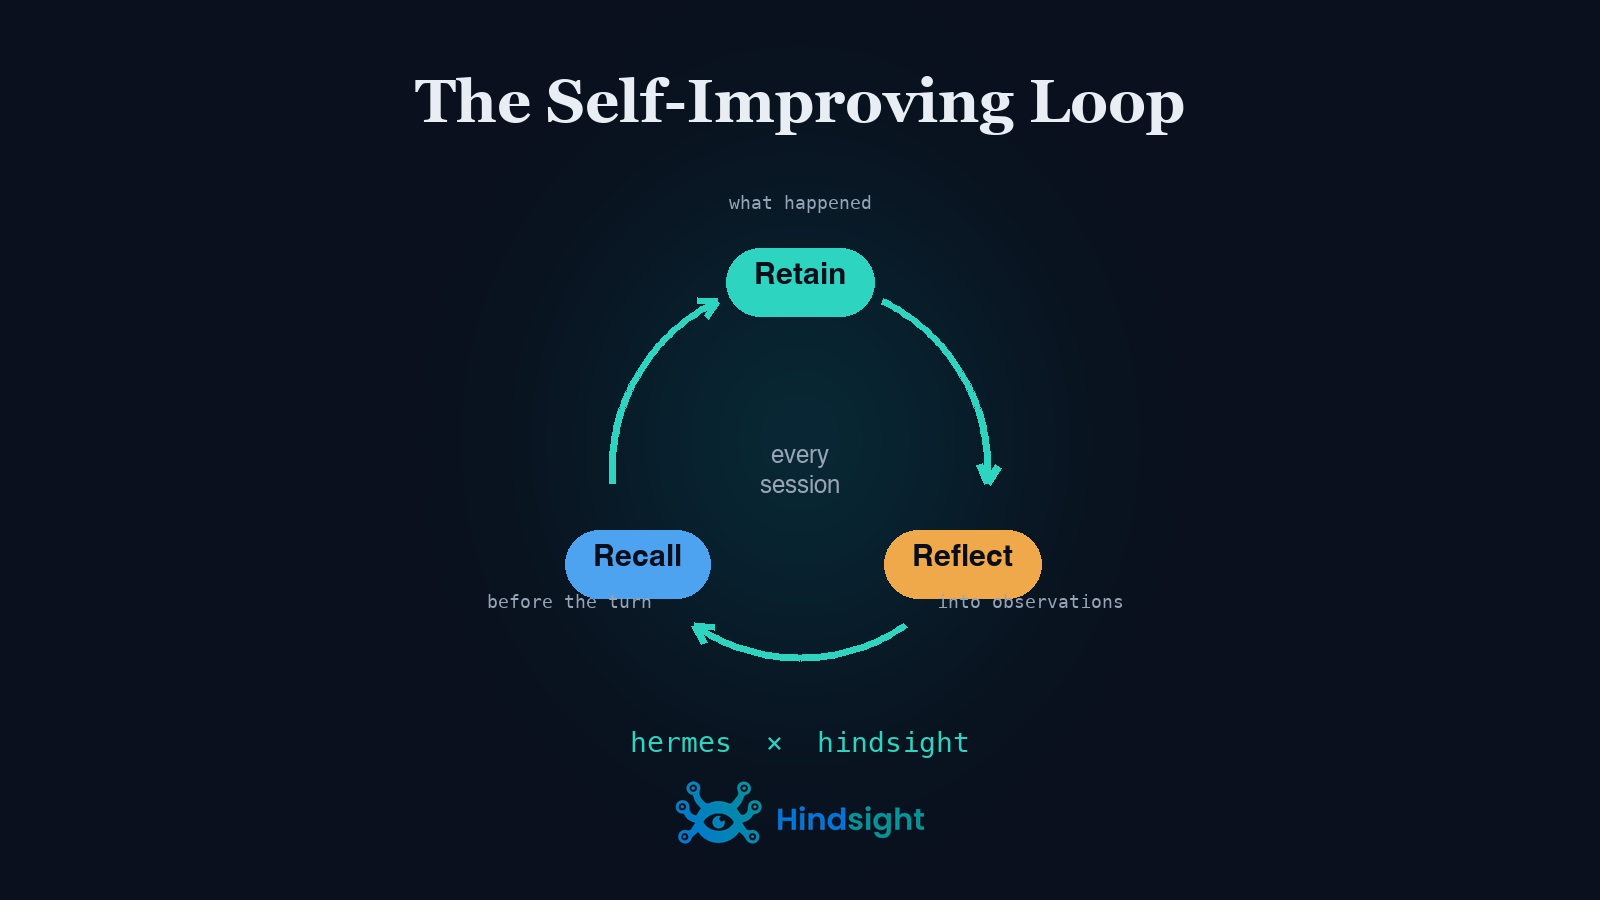
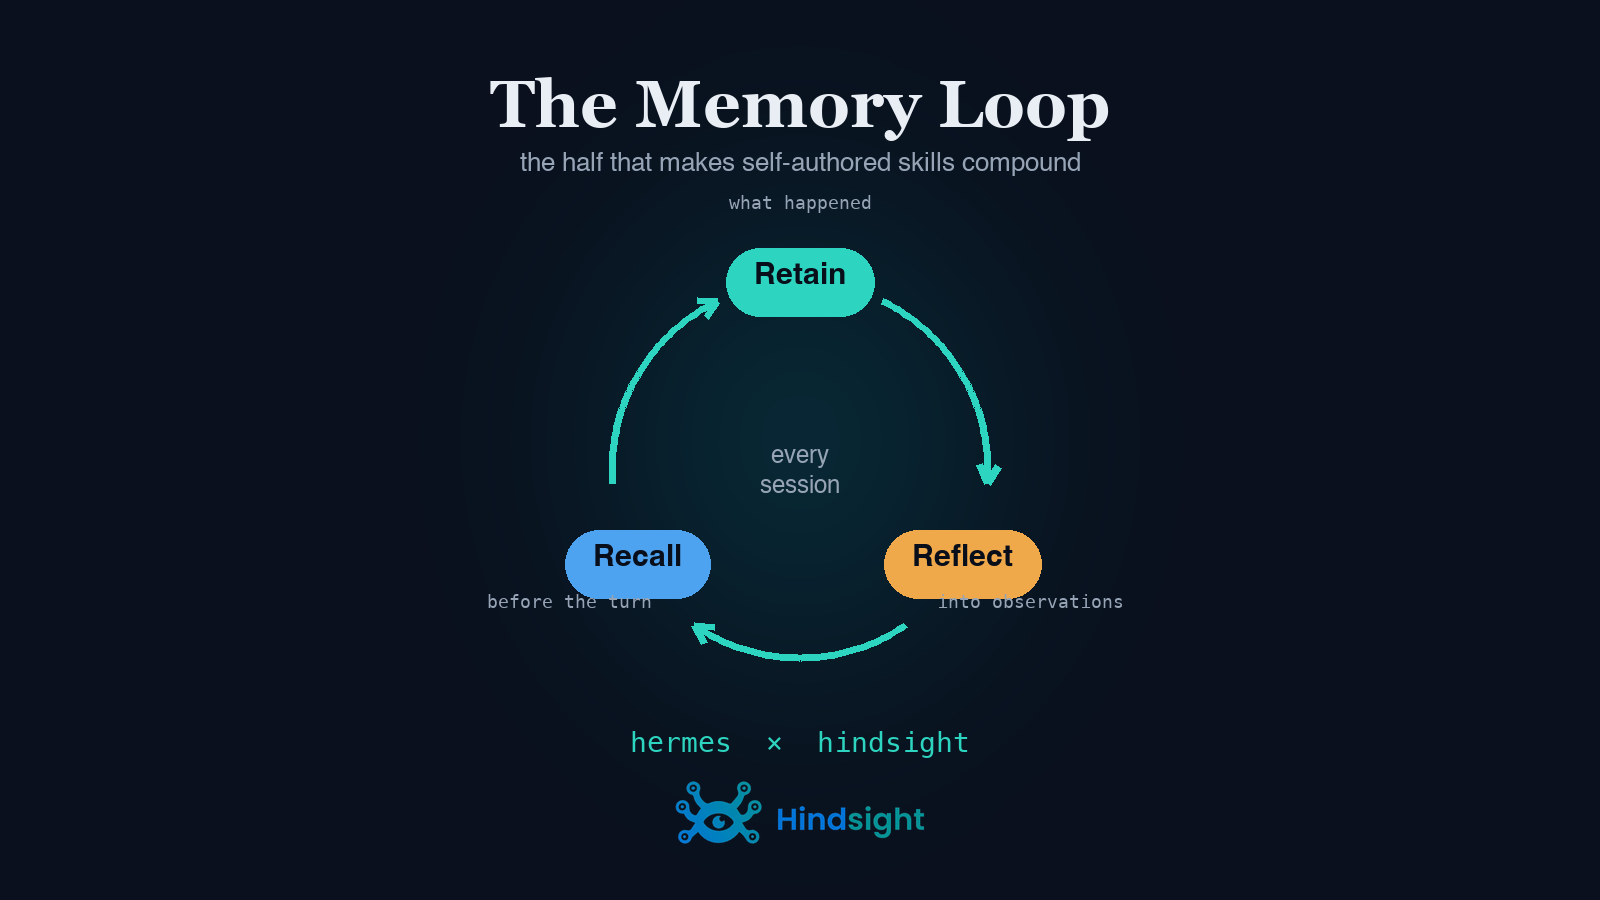
Blog: correct the Hermes self-improvement framing (skills, then memory)
Hermes self-improves by writing its own skills (skill creation, patching,
/learn, GEPA self-evolution). Reframe memory as the complementary half that
makes those skills persist and compound in context, not as the self-improving
mechanism itself. Retitle, add Hermes skills-docs links, update cover to
"The Memory Loop".

Changed region(s): [[0.25, 0.0622, 0.75, 0.1867]]

diff --git a/hindsight-docs/blog/2026-07-08-hermes-self-improving-memory.md b/hindsight-docs/blog/2026-07-08-hermes-self-improving-memory.md
@@ -1,76 +1,71 @@
 ---
-title: "How Memory Turns Hermes Into a Self-Improving Agent"
+title: "Hermes Writes Its Own Skills. Memory Makes Them Compound."
 authors: [benfrank241]
 slug: "2026/07/08/hermes-self-improving-memory"
 date: 2026-07-08T12:00
 tags: [hermes, agents, memory, hindsight, self-improving, agent-memory]
-description: "Hermes bills itself as self-improving. But an agent that forgets each session cannot improve, it resets. Memory is the loop that makes the improvement compound."
+description: "Hermes self-improves by writing its own skills. But skills only compound if the agent remembers them and the context that made them matter. That is where memory comes in."
 image: /img/blog/hermes-self-improving-loop.png
 hide_table_of_contents: true
 ---
 
-![How memory turns Hermes into a self-improving agent](/img/blog/hermes-self-improving-loop.png)
+![Hermes writes its own skills, and memory makes them compound](/img/blog/hermes-self-improving-loop.png)
 
-[Hermes Agent](https://github.com/NousResearch/hermes-agent) is billed as a self-improving AI agent: 40+ tools, a plugin system, and the ability to get better at your work over time. It is a great pitch. But there is a quiet dependency underneath it that decides whether "self-improving" is real or just a slogan: memory.
+[Hermes Agent](https://github.com/NousResearch/hermes-agent) is the rare agent that actually self-improves, and it does it in a concrete way: it writes its own skills. Finish a non-trivial, multi-step task and Hermes can save the approach it worked out as a reusable skill, patch that skill later when it turns out to be wrong, and keep a growing library of capabilities it authored itself. That is a real learning loop, not a slogan.
 
-An agent that forgets everything between sessions does not improve. It resets. It can be brilliant inside one conversation and a stranger in the next, re-learning your stack, your conventions, and the correction you gave it yesterday. Improvement only compounds if the agent remembers what it did, what it learned, and what you told it. That loop is exactly what a memory system provides.
+But skill creation is only half of what makes an agent get better over time. A skill is a file on disk. For it to actually improve the agent, Hermes has to remember the skill exists, know when it applies, and carry the project and user context that made it matter in the first place. That second half is memory, and it is what turns a pile of self-authored skills into an agent that compounds.
 
 <!-- truncate -->
 
 ## TL;DR
 
-- Self-improvement requires memory. Without it, an agent relearns the same context every session instead of building on it.
-- Hermes's built-in memory saves notes to local files: flat text, keyword search, single machine, no synthesis. That captures what the model writes down, not what it learns.
-- Hindsight is a [native memory provider](/blog/2026/04/06/hermes-native-memory-provider) for Hermes. It closes the loop: retain after each turn, consolidate into durable observations, recall the relevant ones before the next turn.
-- The loop compounds because memory stays distilled (consolidation) and retrieval holds up at scale ([64.1% at 10 million tokens on BEAM](/blog/2026/04/02/beam-sota)).
+- Hermes's self-improvement is genuine and specific: it [creates its own skills](https://hermes-agent.nousresearch.com/docs/user-guide/features/skills) from experience, patches them when they are outdated or wrong, and can even evolve them.
+- A skill only helps if the agent remembers it exists, when to use it, and the context that motivated it. That is memory, not skills.
+- Hindsight is Hermes's [native memory provider](/blog/2026/04/06/hermes-native-memory-provider): retain after each turn, consolidate into durable observations, recall the relevant ones before the next.
+- Skills give Hermes new capabilities. Memory makes them compound across sessions and machines instead of resetting.
 
-## Why "self-improving" needs a substrate
+## The engine: Hermes writes its own skills
 
-Think about what it actually takes for an agent to get better at helping you. It has to notice what happened, keep the parts that matter, distill them into something reusable, and bring the right piece back at the right moment. Retain, reflect, recall. Skip any one of those and the loop breaks.
+This is the part that makes Hermes genuinely self-improving. When it works out a non-trivial workflow, it can save that approach as a reusable [skill](https://hermes-agent.nousresearch.com/docs/user-guide/features/skills), so next time the same kind of task comes up it reaches for what it already figured out instead of solving it from scratch. Skills are not frozen either. When one turns out to be incomplete or wrong in practice, Hermes patches it. There is even a `/learn` command that captures a workflow you just did and writes the skill document for you, and an optional [self-evolution](https://github.com/NousResearch/hermes-agent-self-evolution) layer that uses evolutionary search (DSPy and GEPA) to optimize skills, tool descriptions, and prompts.
 
-Hermes ships with memory, and it is a reasonable design: a `memory` tool that writes durable notes to local files and a search tool to look them up. It works for explicit facts. But it has limits that keep the improvement from compounding:
+The result is an agent whose set of capabilities grows with use. That is the headline, and it is why Hermes calls itself the agent that grows with you.
 
-- **It captures what the model decides to write down, not what it learns.** Context does not accumulate on its own.
-- **Notes are flat text with keyword search.** No entity resolution, no relationships, no temporal awareness, so retrieval misses anything phrased differently than it was stored.
-- **Memory lives on one disk.** Run Hermes on your laptop and your server and you have two separate brains.
-- **There is no synthesis.** You can store and fetch facts, but you cannot ask "based on everything you know about this project, what should I watch out for" and get a reasoned answer.
+## The missing half: a skill the agent forgets is a skill it never wrote
 
-None of that makes an agent worse in a single session. It just means each session starts near zero. The agent never gets to stand on what it already knew.
+Now the catch. Skill creation makes Hermes more capable, but capability is not the same as continuity. Skills live as files, and a file does nothing on its own. For a self-authored skill to actually make the agent better, three things have to happen every time you come back:
 
-## The loop: retain, reflect, recall
+- **It has to remember the skill is relevant here.** A library of skills is only useful if the right one surfaces at the right moment, against what you are actually asking.
+- **It has to carry the context that made the skill matter.** The workflow you saved last week assumed things about your project, your stack, and your conventions. Apply it blind to that context and you get a generic run, not a better one.
+- **It has to keep its model of you.** Part of what Hermes improves is its understanding of who you are and how you work. That understanding has to persist across sessions, or it resets to zero each morning.
 
-Hindsight adds the missing layer as a native provider, and it hooks into two points in the Hermes lifecycle so the loop runs on its own.
+Hermes even nudges itself to persist knowledge, which tells you persistence is the point. But persistence is exactly what a local pile of files does not give you: no structure, no retrieval intelligence, no cross-machine sync, and no sense of which context a given skill or fact belongs to. Without a memory layer, the agent can author a hundred skills and still start every session cold, re-deriving a workflow it already saved or applying one without knowing your conventions.
 
-**After each response, Hermes retains the exchange.** Asynchronously, in the background, Hindsight extracts the facts, entities, and relationships from what just happened. It is automatic, so the agent captures what it learned from the conversation, not only the notes it chose to write. Because retain runs in the background, it never slows a turn down.
+## The other half: the memory loop
 
-**Between turns, those facts are consolidated.** Hindsight does not keep a growing pile of raw notes. It merges related facts about the same entity, resolves that "Alice" and "my coworker Alice from engineering" are the same person, and distills the history into durable [observations](/blog/2026/05/21/agent-memory-consolidation). This is the step most memory bolt-ons skip, and it is the one that keeps a large memory useful instead of noisy. Its [mental models](/blog/2026/06/05/mental-models-deep-dive) go further, turning accumulated facts into a reasoned view of a person, project, or system.
+This is where Hindsight comes in, as Hermes's native memory provider. It closes the loop around the skills, hooking into two points in the Hermes lifecycle so it runs on its own.
 
-**Before each turn, Hermes recalls what is relevant.** A prefetch runs, pulls the memories that matter for your current message, and injects them into the system prompt before the model sees the message. The agent starts the task already knowing your project, your preferences, and the decision you made last week, without you repeating any of it.
+**After each response, Hermes retains the exchange.** Asynchronously, Hindsight extracts the facts, entities, and relationships from what just happened, including the decisions and context around the work the agent did. It captures what was learned, not only what got written into a skill file.
 
-One honest detail: the prefetch is queued for speed, so a fact you state this turn becomes available on the next call, not the same one. That keeps every response fast while still closing the loop.
+**Between turns, those facts are consolidated.** Hindsight merges related facts about the same entity, resolves that "Alice" and "my coworker Alice" are the same person, and distills history into durable [observations](/blog/2026/05/21/agent-memory-consolidation) rather than an ever-growing pile of notes. Its [mental models](/blog/2026/06/05/mental-models-deep-dive) turn that into a reasoned view of a person, project, or codebase, which is exactly the "model of you" that skills need to be applied well.
 
-## Why it compounds instead of decaying
+**Before each turn, Hermes recalls what is relevant.** A prefetch pulls the memories that matter for your current message and injects them into the system prompt before the model runs, so the agent starts already knowing your project and preferences, and can bring the right learned behavior to bear. One honest detail: the prefetch is queued for speed, so a fact from this turn is available on the next call, which keeps every response fast.
 
-The obvious worry with any memory system is that it turns into a junk drawer: the more it stores, the noisier and slower it gets. That is what breaks the improvement loop for naive approaches. Two things keep Hindsight's loop compounding in the right direction.
+## Why the two halves compound together
 
-**Consolidation keeps memory distilled.** Because facts are merged into observations rather than appended forever, the store gets sharper as it grows, not messier. More usage means a better-formed understanding of your work, not a longer list to grep.
+Skills and memory improve different things, and that is the point. Skills expand what Hermes can do. Memory decides when and how to do it, in your context, and makes both persist.
 
-**Retrieval holds at scale.** Of all the memory providers Hermes supports, Hindsight is the one with published results on [BEAM](/blog/2026/04/02/beam-sota), the benchmark that tests memory at 10 million tokens, where stuffing everything into context is physically impossible. Hindsight scores 64.1% at that tier; the next-best published result is 40.6%. So as your memory grows past what any context window could hold, the right facts still come back.
+Put them together and the improvement compounds instead of plateauing. Hermes writes a skill from a hard task; memory remembers the skill and the situation it fit; next time, it recalls that context and applies the right capability in your project's terms. Two things keep the memory half pointing the right way as it grows: consolidation keeps the store distilled rather than noisy, and retrieval holds up at scale. Of the memory providers Hermes supports, Hindsight is the one with published results on [BEAM](/blog/2026/04/02/beam-sota), the benchmark that tests memory at 10 million tokens where context stuffing is impossible. Hindsight scores 64.1% there; the next-best published result is 40.6%.
 
-Put those together and the loop points the right way: more use, more retained, a richer consolidated understanding, better recall, better help. That is what "self-improving" is supposed to mean, and memory is the mechanism that makes it true.
+## What it looks like in practice
 
-## What improvement actually looks like
+- **Self-authored skills get reused with context, not blind.** Hermes reaches for the workflow it saved last week and applies it in your project's terms.
+- **Corrections and conventions stick.** Tell it once how this repo does things and it stops re-suggesting the other way, next session and the one after.
+- **It stops re-deriving what it already knows.** Fewer from-scratch reruns of a task it already turned into a skill.
+- **Context survives time and machines.** Plan on Monday, resume Friday on another laptop, and the project is already there.
 
-In practice, the loop shows up as an agent that stops making you repeat yourself:
+## Turning on memory
 
-- **Corrections stick.** Tell Hermes once that this repo uses a particular pattern, and it stops suggesting the other one, next session and the session after.
-- **Conventions are learned, not re-explained.** Your stack, your naming, your review standards accumulate instead of resetting.
-- **Project context persists across time and machines.** Plan a sprint on Monday, open a new session on Friday on your other laptop, and the deadline and the plan are already there.
-- **It reasons over history.** Because Hindsight can synthesize, you can ask what it makes of everything so far and get an answer, not a keyword search.
-
-## Turning it on
-
-Hindsight is a built-in provider, so switching Hermes over is one wizard command:
+Skill creation is built into Hermes. Adding the memory half is one wizard command:
 
 ```bash
 hermes memory setup    # select "hindsight"
@@ -81,21 +76,21 @@ Use [Hindsight Cloud](https://ui.hindsight.vectorize.io/signup) for zero infrast
 
 ## Frequently asked questions
 
-**Does this replace Hermes's built-in memory?**
-Yes. Hindsight is a memory provider Hermes can use in place of the local-file memory, wired into the same lifecycle so recall and retain happen automatically.
+**Does memory replace Hermes's skills?**
+No. They are two halves. Skills are the capabilities Hermes authors for itself; memory is the persistent context and user model that decides when and how to use them.
+
+**What actually makes Hermes self-improving?**
+Autonomous skill creation: it saves workflows as reusable skills, patches them when they are wrong, and can evolve them. Memory is what makes that improvement compound across sessions rather than reset.
 
 **Will a big memory slow the agent down?**
 No. Retain runs asynchronously after the response, recall is a single prefetch before the turn, and consolidation keeps the store distilled rather than ever-growing.
 
-**Is the improvement automatic, or do I have to manage memory?**
-Automatic. The agent retains what it learns and recalls what is relevant on its own. You do not curate notes by hand.
-
-**What makes this different from a bigger context window?**
-Context is rented per session and capped. Memory is durable, selective, and cross-session. BEAM tests exactly the regime where context stuffing fails, and that is where a real memory system earns its keep.
+**Why not just use a bigger context window?**
+Context is rented per session and capped. Memory is durable, selective, and cross-session. BEAM tests exactly the regime where context stuffing fails, and that is where a memory system earns its keep.
 
 ## Further reading
 
+- [Hermes skills system](https://hermes-agent.nousresearch.com/docs/user-guide/features/skills): how Hermes authors and patches its own skills.
 - [Hindsight is now a native memory provider in Hermes](/blog/2026/04/06/hermes-native-memory-provider): the setup guide.
 - [Agent memory consolidation](/blog/2026/05/21/agent-memory-consolidation): how facts become durable observations.
-- [Mental models deep dive](/blog/2026/06/05/mental-models-deep-dive): turning memory into reasoned understanding.
-- [What is agent memory?](https://vectorize.io/what-is-agent-memory): the concepts behind the loop.
+- [Mental models deep dive](/blog/2026/06/05/mental-models-deep-dive): turning memory into a reasoned model of a person or project.